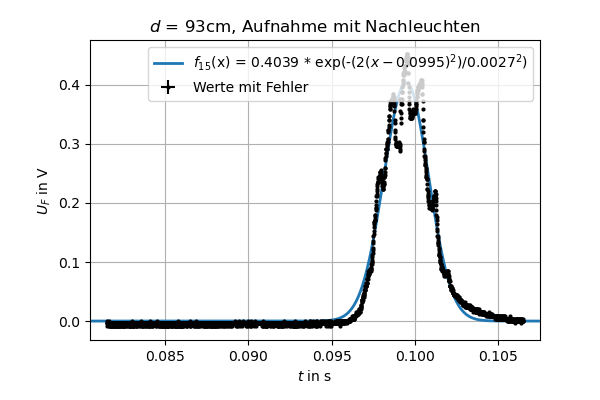
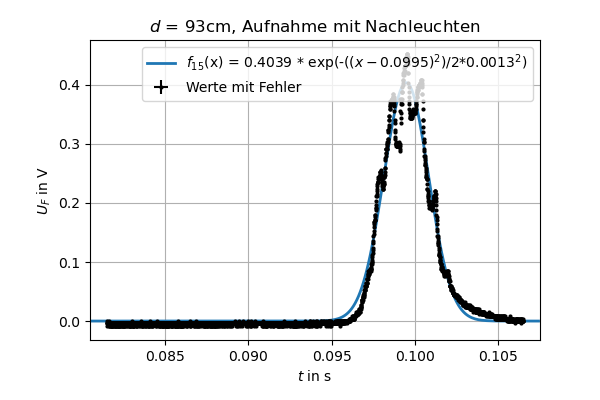
Laser

Changed region(s): [[0.3, 0.12, 0.87, 0.18], [0.24, 0.21, 0.51, 0.24], [0.24, 0.15, 0.27, 0.18]]

diff --git a/FP/4.-Laser.py b/FP/4.-Laser.py
@@ -714,19 +714,19 @@ for i in range(countFiles//3):
     x_data_unlimited.append(np.arange(xmin[i],xmax[i],0.0001))
 
 def fitCurve(x, A, B, C):
-    return A * np.asarray(np.exp(-2*((x-C)**2)/(B**2)))
+    return A * np.asarray(np.exp(-((x-C)**2)/((B**2)*2)))
 
 fitRes = []
 perr = []
 for i in range(countFiles//3):
-    fitRes.append(curve_fit(fitCurve, x_data[(i*3)+2], y_data[(i*3)+2], p0=[0.4, 0.04, 0.1]))
+    fitRes.append(curve_fit(fitCurve, x_data[(i*3)+2], y_data[(i*3)+2], p0=[0.4, 0.02, 0.1]))
     pFit = fitRes[i][0]
     pCov = fitRes[i][1]
     perr.append(np.sqrt(np.diag(pCov)))
     A = fitRes[i][0][0].round(4)
     B = abs(fitRes[i][0][1].round(4))
     C = fitRes[i][0][2].round(4)
-    string = "$f_{%s}$(x) = %s * exp(-(2$(x-%s)^2$)/$%s^2$)"%(i+1,A,C,B)
+    string = "$f_{%s}$(x) = %s * exp(-($(x-%s)^2$)/2*$%s^2$)"%(i+1,A,C,B)
     print("Regressionskurve %s: %s"%(i+1,string))
     ax[(i*3)+2].plot(x_data_unlimited[i], fitCurve(x_data_unlimited[i], *pFit), label=string,linewidth=2)
     ax[(i*3)+2].legend()
@@ -738,8 +738,47 @@ for i in range(countFiles):
     fig[i].savefig("./4.Plots/%s_%s_plot.png"%(versuchsname,i+ersterDatenIndex), dpi=100) # Bild als png Datei in Ordner Plots gespeichert
     plt.close(fig[i])
     
+""" Tabelle ausgeben """
+versuchsname = "Verstärkungsbreite_FPI"
+
+fig = []
+ax = []
+
+g = 2.35482
+for i in range(1):
+    b = []
+    w = np.array([abs(fitRes[j][0][1]) for j in range(len(d))])*1000
+    w_err = np.array([perr[j][1] for j in range(len(d))])*1000
+    fwhm = w*g
+    fwhm_err = w_err*g
+    b.append(np.around(d,1))
+    b.append(np.around(np.array([fitRes[j][0][0] for j in range(len(d))])*1000,2))
+    b.append(np.around(np.array([perr[j][0] for j in range(len(d))])*1000,2))
+    b.append(np.around(w,3))
+    b.append(np.around(w_err,3))
+    b.append(np.around(np.array([fitRes[j][0][2] for j in range(len(d))])*1000,3))
+    b.append(np.around(np.array([perr[j][2] for j in range(len(d))])*1000,3))
+    b.append(np.around(fwhm,3))
+    b.append(np.around(fwhm_err,3))
+    labels = ["$d$ in cm", "$I_0$ in mV", "$\Delta I_0$ in mV", "$\sigma$ in ms", "$\Delta \sigma$ in ms", "$\mu$ in ms", "$\Delta \mu$ in ms", "$F$ in ms", "$\Delta F$ in ms"]
+    b = np.array(b).T        
+    fig.append(plt.figure())
+    ax.append(fig[i].add_axes([0,0,1,1]))
+    ax[i].table(cellText=b,colLabels=labels,loc='center',rowLoc='center')
+    ax[i].axis("off")
+    
+print(sum(fwhm)/len(fwhm))
+print(sum(fwhm_err)/len(fwhm_err))
+
+""" Plot speichern """
+for i in range(1):
+    fig[i].savefig("./4.Plots/%s_table.png"%(versuchsname), dpi=100) # Bild als png Datei in Ordner Plots gespeichert
+    plt.close(fig[i])
+    
 
 """ Tabelle ausgeben """
+versuchsname = "Longitudinalmoden"
+
 fig = []
 ax = []
 for i in range((countFiles//3)*2):
@@ -838,58 +877,37 @@ for i in range(1):
     ax.append(fig[i].add_axes([0,0,1,1]))
     ax[i].table(cellText=b,colLabels=labels,loc='center',rowLoc='center')
     ax[i].axis("off")
+    
+    print(sum(DeltaT)/len(DeltaT))
 
 """ Plot speichern """
 for i in range(1):
     fig[i].savefig("./4.Plots/%s_table.png"%(versuchsname), dpi=100) # Bild als png Datei in Ordner Plots gespeichert
     plt.close(fig[i])
     
-# =============================================================================
-# """ Tabelle ausgeben """
-# versuchsname = "Modenfrequenzen"
-# 
-# fig = []
-# ax = []
-# for i in range(1):
-#     b = []
-#     b.append(np.around(d,1))
-#     b.append(np.around(DeltaT1*1000,3))
-#     b.append(np.around(DeltaT2*1000,3))
-#     b.append(np.around(DeltaT*1000,3))
-#     b.append(np.around(Deltatn*1000,3))
-#     b.append(np.around(n,0))
-#     b.append(np.around(Deltat*1000,3))
-#     labels = ["$d$ in cm", "$\Delta T_1$ in ms", "$\Delta T_2$ in ms", "$\Delta T$ in ms", "$\Delta t * n$ in ms", "$n$", "$\Delta t$ in ms"]
-#     b = np.array(b).T        
-#     fig.append(plt.figure())
-#     ax.append(fig[i].add_axes([0,0,1,1]))
-#     ax[i].table(cellText=b,colLabels=labels,loc='center',rowLoc='center')
-#     ax[i].axis("off")
-# 
-# """ Plot speichern """
-# for i in range(1):
-#     fig[i].savefig("./4.Plots/%s_table.png"%(versuchsname), dpi=100) # Bild als png Datei in Ordner Plots gespeichert
-#     plt.close(fig[i])
-#     
-# =============================================================================
-    
 """ Tabelle ausgeben """
-versuchsname = "Verstärkungsbreite_FPI"
+versuchsname = "Modenfrequenzen_original"
+
+delt = 0.0001/n
+delT = 0.0002
+c = 299792458
+d_err = 0.4
+d = np.array(d)
+Deltanu = (10*Deltat)/DeltaT
+Deltanu_err = ((delt*10)/DeltaT) + ((Deltat*10*delT)/(DeltaT**2))
+DeltanuT = (c/(2*d*1e-2))*1e-9
+diff = ((abs(Deltanu-DeltanuT))/DeltanuT)*100
 
 fig = []
 ax = []
 for i in range(1):
     b = []
-    w = np.array([abs(fitRes[j][0][1]) for j in range(len(d))])*1000
-    w_err = np.array([perr[j][1] for j in range(len(d))])*1000
     b.append(np.around(d,1))
-    b.append(np.around(np.array([fitRes[j][0][0] for j in range(len(d))])*1000,3))
-    b.append(np.around(np.array([perr[j][0] for j in range(len(d))])*1000,3))
-    b.append(np.around(w,3))
-    b.append(np.around(w_err,3))
-    b.append(np.around(np.array([fitRes[j][0][2] for j in range(len(d))])*1000,3))
-    b.append(np.around(np.array([perr[j][2] for j in range(len(d))])*1000,3))
-    labels = ["$d$ in cm", "$I_0$ in mV", "$\Delta I_0$ in mV", "$w$ in $\mu$m", "$\Delta w$ in $\mu$m", "$x_0$ in $\mu$m", "$\Delta x_0$ in $\mu$m"]
+    b.append(np.around(Deltanu*1000,2))
+    b.append(np.around(Deltanu_err*1000,2))
+    b.append(np.around(DeltanuT*1000,2))
+    b.append(np.around(diff,2))
+    labels = ["$d$ in cm", "$\Delta ν_L$ in MHz", "$\Delta \Delta ν_L$ in MHz", "$\Delta ν_T$ in MHz", "Abweichung in %"]
     b = np.array(b).T        
     fig.append(plt.figure())
     ax.append(fig[i].add_axes([0,0,1,1]))
@@ -900,3 +918,95 @@ for i in range(1):
 for i in range(1):
     fig[i].savefig("./4.Plots/%s_table.png"%(versuchsname), dpi=100) # Bild als png Datei in Ordner Plots gespeichert
     plt.close(fig[i])
+    
+""" Tabelle ausgeben """
+versuchsname = "Modenfrequenzen_angepasst"
+
+for i in range(5):
+    Deltanu[i] = Deltanu[i]*2
+
+diff = ((abs(Deltanu-DeltanuT))/DeltanuT)*100
+
+print((sum(diff)/len(diff)))
+    
+fig = []
+ax = []
+for i in range(1):
+    b = []
+    b.append(np.around(d,1))
+    b.append(np.around(Deltanu*1000,2))
+    b.append(np.around(Deltanu_err*1000,2))
+    b.append(np.around(DeltanuT*1000,2))
+    b.append(np.around(diff,2))
+    labels = ["$d$ in cm", "$\Delta ν_L$ in MHz", "$\Delta \Delta ν_L$ in MHz", "$\Delta ν_T$ in MHz", "Abweichung in %"]
+    b = np.array(b).T        
+    fig.append(plt.figure())
+    ax.append(fig[i].add_axes([0,0,1,1]))
+    ax[i].table(cellText=b,colLabels=labels,loc='center',rowLoc='center')
+    ax[i].axis("off")
+
+""" Plot speichern """
+for i in range(1):
+    fig[i].savefig("./4.Plots/%s_table.png"%(versuchsname), dpi=100) # Bild als png Datei in Ordner Plots gespeichert
+    plt.close(fig[i])
+    
+""" Plotten """
+x_data = []
+y_data = []
+xerr = []
+yerr = []
+
+x_data.append(1/d)
+y_data.append(Deltanu)
+s = len(x_data[0])
+xerr.append(d_err/(d**2))
+yerr.append(Deltanu_err)
+
+fig = []
+ax = []
+for i in range(1):
+    fig.append(plt.figure())
+    ax.append(fig[i].add_axes([0.15,0.15,0.75,0.75]))
+    ax[i].errorbar(x_data[i],y_data[i],yerr[i],xerr[i],label="Werte mit Fehler",fmt='o',markersize=2,color="Black")
+    ax[i].legend()
+    ax[i].grid(True)
+    # ax[i].axis([0,1,2,3])
+    # ax[i].set(xlim=(0,8))
+    # ax[i].set(ylim=(-0.2,2.2))
+    ax[i].set_xlabel("$1/d$ in 1/cm")
+    ax[i].set_ylabel("$\Delta ν_L$ in GHz")
+    
+""" Regressionskurve """ 
+xmax = []
+xmin = []
+x_data_unlimited = []
+for i in range(1):
+    xmax.append(max(x_data[i]) + 0.002)
+    xmin.append(min(x_data[i]) - 0.002)
+    x_data_unlimited.append(np.arange(xmin[i],xmax[i],0.001))
+
+def fitCurve(x, A):
+    return A * np.asarray(x)
+
+fitRes = []
+perr = []
+x = sp.symbols('a')
+for i in range(1):
+    fitRes.append(curve_fit(fitCurve, x_data[i], y_data[i], p0=[-1]))
+    pFit = fitRes[i][0]
+    pCov = fitRes[i][1]
+    A = fitRes[i][0][0].round(2)
+    fitCurveStr = A * x
+    string = "f(a) = %s"%fitCurveStr
+    print("Regressionskurve %s: %s"%(i+1,string))
+    ax[i].plot(x_data_unlimited[i], fitCurve(x_data_unlimited[i], *pFit), label=string,linewidth=2)
+    ax[i].legend()
+    perr.append(np.sqrt(np.diag(pCov)))
+    print("Fitfehler",i+1,perr[i])
+    ax[i].set(xlim=(xmin[i],xmax[i]))
+
+""" Plot speichern """
+for i in range(1):
+    fig[i].savefig("./4.Plots/%s_plot.png"%(versuchsname), dpi=100) # Bild als png Datei in Ordner Plots gespeichert
+    plt.close(fig[i])
+    
